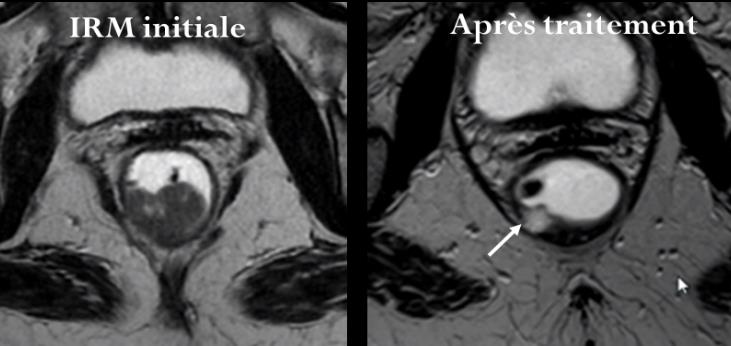
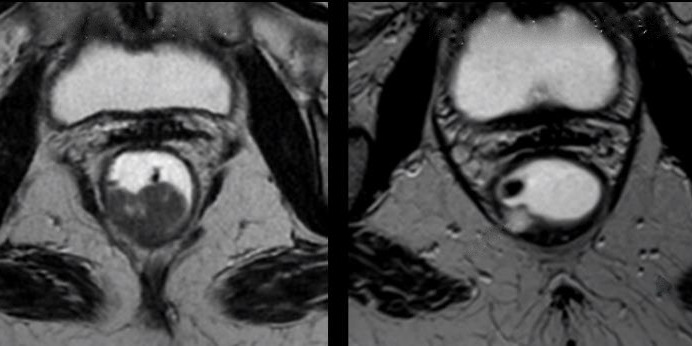
Fiche rectum : iconographie au style du site, nouveau schéma du staging T
- 10 images : flèches, têtes de flèche, textes et mesure incrustés repérés
  au pixel près, effacés, puis redessinés au même endroit dans un calque
  SVG (flèches orange cernées d'encre, tête de flèche noire en bleu, formes
  « ➤ » du stade T3 gardées, étiquettes en Montserrat, « 1,57 cm »).
- Lettres d'article A, B, C sans objet et curseur de souris retirés.
- Images « avant / après » recadrées en 2:1 (format affiché) ; pastille
  « Avant / après » retirée de 3 figures (doublon des étiquettes) ;
  l'agrandissement reprend le calque (.lb-wrap).
- Schéma du staging T remplacé par le dessin de l'auteur.
- Images versionnées (?v=20261021) ; README.

Claude-Session: https://claude.ai/code/session_01XRUNcZaE25We66fu1uYoPm

diff --git a/fiches/irm-cancer-rectum.html b/fiches/irm-cancer-rectum.html
@@ -267,7 +267,7 @@
           <div class="ex-gallery">
             <div class="ex-grid ex-grid-wide">
               <figure class="ex-fig" style="--c: var(--amber)">
-                <button class="ex-img" aria-label="Agrandir : Formes tumorales"><img src="../assets/fiches/rectum/formes-tumorales.jpg" alt="IRM T2 sagittale et axiale — illustration des formes tumorales" loading="lazy"><span class="ex-mod">IRM T2</span></button>
+                <button class="ex-img" aria-label="Agrandir : Formes tumorales"><img src="../assets/fiches/rectum/formes-tumorales.jpg?v=20261021" alt="IRM T2 sagittale et axiale — illustration des formes tumorales" loading="lazy"><span class="ex-mod">IRM T2</span></button>
                 <figcaption><strong>Formes tumorales</strong>Coupes sagittale et axiale T2 illustrant l'aspect morphologique de la tumeur (illustration du cours).</figcaption>
               </figure>
             </div>
@@ -324,8 +324,8 @@
                   <p><mark class="k-key">Envahissement du mésorectum</mark>.</p>
                   <p><mark class="k-ddx">Piège</mark> : discontinuité de la musculeuse (vaisseaux perforants) et spiculations péri-rectales : <mark class="k-ddx">spicules non tumorales</mark> (réaction desmoplastique bénigne) ou tumorales.</p>
                   <figure class="ex-fig ex-inline" style="--c: var(--orange)">
-                    <button class="ex-img" aria-label="Agrandir : Stade T3"><img src="../assets/fiches/rectum/stade-t3.jpg" alt="IRM T2 axiale — stade T3" loading="lazy"><span class="ex-mod">T2 axial</span></button>
-                    <figcaption><strong>Stade T3</strong>Extension tumorale dans la graisse du mésorectum (têtes de flèche).</figcaption>
+                    <button class="ex-img" aria-label="Agrandir : Stade T3"><img src="../assets/fiches/rectum/stade-t3.jpg?v=20261021" alt="IRM T2 axiale — stade T3" loading="lazy"><svg class="annot" style="position:absolute;top:0;left:0;width:100%;height:100%;overflow:hidden" viewBox="0 0 341 270" aria-hidden="true"><g class="mk" data-mk="ext"><path fill="#f2ab2f" stroke="#111114" stroke-width="1.8" stroke-linejoin="round" d="M137.8 193 121.5 199.2 130.9 200.8 134.1 209.4 Z"/></g><g class="mk" data-mk="ext"><path fill="#f2ab2f" stroke="#111114" stroke-width="1.8" stroke-linejoin="round" d="M163.3 197.5 157 213.8 164.6 207.9 173.3 211.3 Z"/></g></svg><span class="ex-mod">T2 axial</span></button>
+                    <figcaption><strong>Stade T3</strong>Extension tumorale dans la graisse du mésorectum (têtes de flèche orange).</figcaption>
                   </figure>
                 </article>
                 <article class="t-panel" data-t="t4" style="--c: var(--k-grave)">
@@ -335,7 +335,7 @@
               </div>
             </div>
             <figure class="ex-fig ex-schema" style="--c: var(--slate)">
-              <button class="ex-img" aria-label="Agrandir : Schéma du staging T"><img src="../assets/fiches/rectum/schema-staging-t.jpg" alt="Schéma du staging T du cancer du rectum" loading="lazy"><span class="ex-mod">Schéma</span></button>
+              <button class="ex-img" aria-label="Agrandir : Schéma du staging T"><img src="../assets/fiches/rectum/schema-staging-t.jpg?v=20261021" alt="Schéma du staging T du cancer du rectum : T1 sous-muqueuse, T2 musculeuse, T3 au-delà de la musculeuse, T4 viscères adjacents" loading="lazy"><span class="ex-mod">Schéma</span></button>
               <figcaption><strong>Staging T</strong>T1 sous-muqueuse, T2 musculeuse, T3 mésorectum, T4 organes de voisinage.</figcaption>
             </figure>
           </div>
@@ -374,15 +374,15 @@
           <div class="ex-gallery">
             <div class="ex-grid">
               <figure class="ex-fig ex-schema" style="--c: var(--slate)">
-                <button class="ex-img" aria-label="Agrandir : Schéma CRM tumeur T1"><img src="../assets/fiches/rectum/schema-crm-t1.png" alt="Schéma : CRM et EMS pour une tumeur T1" loading="lazy"><span class="ex-mod">Schéma</span></button>
+                <button class="ex-img" aria-label="Agrandir : Schéma CRM tumeur T1"><img src="../assets/fiches/rectum/schema-crm-t1.png?v=20261021" alt="Schéma : CRM et EMS pour une tumeur T1" loading="lazy"><svg class="annot" style="position:absolute;top:0;left:0;width:100%;height:100%;overflow:hidden" viewBox="0 0 679 466" aria-hidden="true"><text x="319" y="73.1" text-anchor="middle" font-family="Montserrat, system-ui, sans-serif" font-weight="700" font-size="15.5" fill="#111114">mésorectum</text><text x="57.5" y="147.1" text-anchor="middle" font-family="Montserrat, system-ui, sans-serif" font-weight="700" font-size="15.5" fill="#111114">fascia recti</text><text x="579" y="307" text-anchor="start" font-family="Montserrat, system-ui, sans-serif" font-weight="700" font-size="14" fill="#111114">Ganglion</text><text x="579" y="329.5" text-anchor="start" font-family="Montserrat, system-ui, sans-serif" font-weight="700" font-size="14" fill="#111114">non suspect</text><text x="586" y="374" text-anchor="start" font-family="Montserrat, system-ui, sans-serif" font-weight="700" font-size="14" fill="#111114">Ganglion</text><text x="586" y="397.5" text-anchor="start" font-family="Montserrat, system-ui, sans-serif" font-weight="700" font-size="14" fill="#111114">suspect</text><text x="585" y="428.5" text-anchor="start" font-family="Montserrat, system-ui, sans-serif" font-weight="700" font-size="14" fill="#111114">musculeuse</text><text x="380.5" y="288.9" text-anchor="middle" font-family="Montserrat, system-ui, sans-serif" font-weight="900" font-size="15" fill="#111114">T3</text><g class="mk" data-mk="ems"><path d="M450.9 250.4 L486.9 289.6" stroke="#111114" stroke-width="6" stroke-linecap="round" fill="none"/><path d="M450.9 250.4 L486.9 289.6" stroke="#f7c832" stroke-width="3.2" stroke-linecap="round" fill="none"/><path fill="#f7c832" stroke="#111114" stroke-width="1.4" stroke-linejoin="round" d="M446 245.1 448.1 255.5 456.1 248 Z"/><path fill="#f7c832" stroke="#111114" stroke-width="1.4" stroke-linejoin="round" d="M491.8 294.9 481.7 292 489.8 284.5 Z"/></g><rect x="470.8" y="229" width="46.4" height="19" rx="9.5" fill="#f7c832" stroke="#111114" stroke-width="1.5"/><text x="494.4" y="242.8" text-anchor="middle" font-family="Montserrat, system-ui, sans-serif" font-weight="900" font-size="12" letter-spacing="0.7" fill="#111114">EMS</text><g class="mk" data-mk="crm"><path d="M445.5 332.9 L461.6 358" stroke="#111114" stroke-width="5.2" stroke-linecap="round" fill="none"/><path d="M445.5 332.9 L461.6 358" stroke="#1f8a5b" stroke-width="2.6" stroke-linecap="round" fill="none"/></g><rect x="388.4" y="352.5" width="48.2" height="19" rx="9.5" fill="#1f8a5b" stroke="#111114" stroke-width="1.5"/><text x="412.9" y="366.3" text-anchor="middle" font-family="Montserrat, system-ui, sans-serif" font-weight="900" font-size="12" letter-spacing="0.7" fill="#ffffff">CRM</text></svg><span class="ex-mod">Schéma</span></button>
                 <figcaption><strong>CRM et EMS · tumeur T1</strong>CRM (vert) mesurée jusqu'au fascia recti ; distinction ganglion suspect / non suspect.</figcaption>
               </figure>
               <figure class="ex-fig ex-schema" style="--c: var(--slate)">
-                <button class="ex-img" aria-label="Agrandir : Schéma CRM tumeur T3"><img src="../assets/fiches/rectum/schema-crm-t3.png" alt="Schéma : CRM et EMS pour une tumeur T3" loading="lazy"><span class="ex-mod">Schéma</span></button>
+                <button class="ex-img" aria-label="Agrandir : Schéma CRM tumeur T3"><img src="../assets/fiches/rectum/schema-crm-t3.png?v=20261021" alt="Schéma : CRM et EMS pour une tumeur T3" loading="lazy"><svg class="annot" style="position:absolute;top:0;left:0;width:100%;height:100%;overflow:hidden" viewBox="0 0 591 413" aria-hidden="true"><text x="328" y="79.8" text-anchor="middle" font-family="Montserrat, system-ui, sans-serif" font-weight="700" font-size="16" fill="#111114">mésorectum</text><text x="61.5" y="144.8" text-anchor="middle" font-family="Montserrat, system-ui, sans-serif" font-weight="700" font-size="16" fill="#111114">fascia recti</text><text x="416" y="297.4" text-anchor="middle" font-family="Montserrat, system-ui, sans-serif" font-weight="900" font-size="15" fill="#111114">T3</text><g class="mk" data-mk="ems"><path d="M483.1 251.4 L521.6 289.9" stroke="#111114" stroke-width="6" stroke-linecap="round" fill="none"/><path d="M483.1 251.4 L521.6 289.9" stroke="#f7c832" stroke-width="3.2" stroke-linecap="round" fill="none"/><path fill="#f7c832" stroke="#111114" stroke-width="1.4" stroke-linejoin="round" d="M478 246.3 480.5 256.5 488.3 248.8 Z"/><path fill="#f7c832" stroke="#111114" stroke-width="1.4" stroke-linejoin="round" d="M526.7 295 516.5 292.5 524.2 284.7 Z"/></g><rect x="506.8" y="229.5" width="46.4" height="19" rx="9.5" fill="#f7c832" stroke="#111114" stroke-width="1.5"/><text x="530.4" y="243.3" text-anchor="middle" font-family="Montserrat, system-ui, sans-serif" font-weight="900" font-size="12" letter-spacing="0.7" fill="#111114">EMS</text><g class="mk" data-mk="crm"><path d="M477 331.3 L494.6 356.1" stroke="#111114" stroke-width="5.2" stroke-linecap="round" fill="none"/><path d="M477 331.3 L494.6 356.1" stroke="#1f8a5b" stroke-width="2.6" stroke-linecap="round" fill="none"/></g><rect x="416.9" y="350.5" width="48.2" height="19" rx="9.5" fill="#1f8a5b" stroke="#111114" stroke-width="1.5"/><text x="441.4" y="364.3" text-anchor="middle" font-family="Montserrat, system-ui, sans-serif" font-weight="900" font-size="12" letter-spacing="0.7" fill="#ffffff">CRM</text></svg><span class="ex-mod">Schéma</span></button>
                 <figcaption><strong>CRM et EMS · tumeur T3</strong>EMS (jaune) mesurée depuis la musculeuse ; CRM (vert) jusqu'au fascia recti.</figcaption>
               </figure>
               <figure class="ex-fig" style="--c: var(--orange)">
-                <button class="ex-img" aria-label="Agrandir : Mesure en IRM"><img src="../assets/fiches/rectum/mesure-axiale.jpg" alt="IRM axiale — exemple de mesure" loading="lazy"><span class="ex-mod">IRM axiale</span></button>
+                <button class="ex-img" aria-label="Agrandir : Mesure en IRM"><img src="../assets/fiches/rectum/mesure-axiale.jpg?v=20261021" alt="IRM axiale — exemple de mesure" loading="lazy"><svg class="annot" style="position:absolute;top:0;left:0;width:100%;height:100%;overflow:hidden" viewBox="0 0 358 271" aria-hidden="true"><g class="mk" data-mk="mesure"><path d="M98 145.6 L144.4 134.4" stroke="#111114" stroke-width="5.2" stroke-linecap="round" fill="none"/><path d="M98 145.6 L144.4 134.4" stroke="#f2ab2f" stroke-width="2.4" stroke-linecap="round" fill="none"/><path d="M99.2 150.5 L96.8 140.7" stroke="#111114" stroke-width="5.2" stroke-linecap="round" fill="none"/><path d="M99.2 150.5 L96.8 140.7" stroke="#f2ab2f" stroke-width="2.4" stroke-linecap="round" fill="none"/><path d="M145.6 139.3 L143.2 129.5" stroke="#111114" stroke-width="5.2" stroke-linecap="round" fill="none"/><path d="M145.6 139.3 L143.2 129.5" stroke="#f2ab2f" stroke-width="2.4" stroke-linecap="round" fill="none"/></g><rect x="41" y="180.1" width="74.8" height="21" rx="10.5" fill="#f2ab2f" stroke="#111114" stroke-width="1.5"/><text x="78.8" y="195.3" text-anchor="middle" font-family="Montserrat, system-ui, sans-serif" font-weight="900" font-size="13" letter-spacing="0.8" fill="#111114">1,57 cm</text></svg><span class="ex-mod">IRM axiale</span></button>
                 <figcaption><strong>Exemple de mesure</strong>Mesure sur coupe axiale (1,57 cm), illustrant l'évaluation de l'extension dans le mésorectum.</figcaption>
               </figure>
             </div>
@@ -410,7 +410,7 @@
               </ul>
             </div>
             <figure class="ex-fig" style="--c: var(--rose)">
-              <button class="ex-img" aria-label="Agrandir : CRM du bas rectum"><img src="../assets/fiches/rectum/crm-bas-rectum.jpg" alt="IRM T2 coronale — CRM d'une tumeur du bas rectum" loading="lazy"><span class="ex-mod">T2 coronal</span></button>
+              <button class="ex-img" aria-label="Agrandir : CRM du bas rectum"><img src="../assets/fiches/rectum/crm-bas-rectum.jpg?v=20261021" alt="IRM T2 coronale — CRM d'une tumeur du bas rectum" loading="lazy"><svg class="annot" style="position:absolute;top:0;left:0;width:100%;height:100%;overflow:hidden" viewBox="0 0 291 404" aria-hidden="true"><g class="mk" data-mk="crm"><rect x="182.5" y="210" width="15" height="4.5" rx="1.5" fill="#f2ab2f" stroke="#111114" stroke-width="1.4"/></g><rect x="159.9" y="239.5" width="64.3" height="25" rx="12.5" fill="#111114" stroke="#111114" stroke-width="1.5"/><text x="192.5" y="257.8" text-anchor="middle" font-family="Montserrat, system-ui, sans-serif" font-weight="900" font-size="16" letter-spacing="1" fill="#ffffff">CRM</text></svg><span class="ex-mod">T2 coronal</span></button>
               <figcaption><strong>CRM au bas rectum</strong>Coupe coronale T2 sur le canal anal : marge latérale (CRM) mesurée par rapport au plan de clivage avec le faisceau ilio-coccygien.</figcaption>
             </figure>
           </div>
@@ -537,21 +537,21 @@
           <h3 class="marker-sub">1. Aspect de la tumeur : 3 types de réponse + l'œdème</h3>
           <div class="resp-grid">
             <figure class="ex-fig resp" style="--c: var(--slate)">
-              <button class="ex-img" aria-label="Agrandir : Réponse fibreuse"><img src="../assets/fiches/rectum/reponse-fibreuse.jpg" alt="IRM initiale et après traitement — réponse fibreuse" loading="lazy"><span class="ex-mod">Avant / après</span></button>
+              <button class="ex-img" aria-label="Agrandir : Réponse fibreuse"><img src="../assets/fiches/rectum/reponse-fibreuse.jpg?v=20261021" alt="IRM initiale et après traitement — réponse fibreuse" loading="lazy"><svg class="annot" style="position:absolute;top:0;left:0;width:100%;height:100%;overflow:hidden" viewBox="0 0 688 344" aria-hidden="true"><g transform="translate(0 -4)"><g class="mk" data-mk="fleche"><path fill="#f2ab2f" stroke="#111114" stroke-width="2.2" stroke-linejoin="round" d="M47 258 86.1 257.8 86.2 267.3 116 253.2 86 239.3 86.1 248.8 47 249 Z"/></g><g class="mk" data-mk="tete"><path fill="#f2ab2f" stroke="#111114" stroke-width="2.2" stroke-linejoin="round" d="M464.5 297.7 493.5 277.7 493.6 311.2 Z"/></g><rect x="83.9" y="4.9" width="154.2" height="27.2" rx="13.6" fill="#111114" stroke="#111114" stroke-width="1.5"/><text x="161.5" y="24.6" text-anchor="middle" font-family="Montserrat, system-ui, sans-serif" font-weight="900" font-size="17" letter-spacing="1" fill="#ffffff">IRM INITIALE</text><rect x="387.3" y="4.9" width="225.4" height="27.2" rx="13.6" fill="#111114" stroke="#111114" stroke-width="1.5"/><text x="500.5" y="24.6" text-anchor="middle" font-family="Montserrat, system-ui, sans-serif" font-weight="900" font-size="17" letter-spacing="1" fill="#ffffff">APRÈS TRAITEMENT</text></g></svg></button>
               <figcaption><strong>Réponse fibreuse</strong>
                 <span>Stroma fibreux en <mark class="k-signo">hyposignal T2</mark>, similaire au signal de la musculeuse.</span>
                 <span><mark class="k-ddx">Résidu tumoral au sein de la fibrose : signal intermédiaire</mark>.</span>
               </figcaption>
             </figure>
             <figure class="ex-fig resp" style="--c: var(--amber)">
-              <button class="ex-img" aria-label="Agrandir : Réponse desmoplastique"><img src="../assets/fiches/rectum/reponse-desmoplastique.jpg" alt="IRM initiale et après traitement — réponse desmoplastique" loading="lazy"><span class="ex-mod">Avant / après</span></button>
+              <button class="ex-img" aria-label="Agrandir : Réponse desmoplastique"><img src="../assets/fiches/rectum/reponse-desmoplastique.jpg?v=20261021" alt="IRM initiale et après traitement — réponse desmoplastique" loading="lazy"><svg class="annot" style="position:absolute;top:0;left:0;width:100%;height:100%;overflow:hidden" viewBox="0 0 410 205" aria-hidden="true"><g transform="translate(0 -5)"><g class="mk" data-mk="tete"><path fill="#f2ab2f" stroke="#111114" stroke-width="1.8" stroke-linejoin="round" d="M100.5 48.5 93.9 33.3 107.1 33.3 Z"/></g><g class="mk" data-mk="fleche"><path fill="#f2ab2f" stroke="#111114" stroke-width="1.8" stroke-linejoin="round" d="M207 83 174.8 83 174.8 79 162 86 174.8 93 174.8 89 207 89 Z"/></g><g class="mk" data-mk="tete"><path fill="#f2ab2f" stroke="#111114" stroke-width="1.8" stroke-linejoin="round" d="M247.1 95.1 259.5 99.5 247.1 103.9 Z"/></g><g class="mk" data-mk="fleche"><path fill="#f2ab2f" stroke="#111114" stroke-width="1.8" stroke-linejoin="round" d="M389 101.9 363.4 102.2 363.3 96.7 346 105.4 363.5 113.7 363.5 108.2 389 107.9 Z"/></g><g class="mk" data-mk="tete"><path fill="#f2ab2f" stroke="#111114" stroke-width="1.8" stroke-linejoin="round" d="M352 138.2 350.8 147 338.5 142.5 Z"/></g><rect x="31.1" y="7.4" width="108.9" height="19.2" rx="9.6" fill="#111114" stroke="#111114" stroke-width="1.5"/><text x="85.9" y="21.3" text-anchor="middle" font-family="Montserrat, system-ui, sans-serif" font-weight="900" font-size="12" letter-spacing="0.7" fill="#ffffff">IRM INITIALE</text><rect x="227.4" y="8.4" width="159.1" height="19.2" rx="9.6" fill="#111114" stroke="#111114" stroke-width="1.5"/><text x="307.4" y="22.3" text-anchor="middle" font-family="Montserrat, system-ui, sans-serif" font-weight="900" font-size="12" letter-spacing="0.7" fill="#ffffff">APRÈS TRAITEMENT</text></g></svg></button>
               <figcaption><strong>Réponse desmoplastique</strong>
                 <span><mark class="k-signo">Fines spicules hypointenses</mark> dans la graisse péri-rectale, irradiant à partir du résidu tumoral.</span>
                 <span><mark class="k-ddx">Over-staging tumoral</mark>.</span>
               </figcaption>
             </figure>
             <figure class="ex-fig resp" style="--c: var(--purple)">
-              <button class="ex-img" aria-label="Agrandir : Réponse colloïde"><img src="../assets/fiches/rectum/reponse-colloide.jpg" alt="IRM initiale et après traitement — réponse colloïde" loading="lazy"><span class="ex-mod">Avant / après</span></button>
+              <button class="ex-img" aria-label="Agrandir : Réponse colloïde"><img src="../assets/fiches/rectum/reponse-colloide.jpg?v=20261021" alt="IRM initiale et après traitement — réponse colloïde" loading="lazy"><svg class="annot" style="position:absolute;top:0;left:0;width:100%;height:100%;overflow:hidden" viewBox="0 0 692 346" aria-hidden="true"><g transform="translate(-19 0)"><g class="mk" data-mk="fleche"><path fill="#f2ab2f" stroke="#111114" stroke-width="2.0" stroke-linejoin="round" d="M489.9 258.1 513.1 235.8 515.2 238 521.4 224.3 507.4 229.9 509.5 232.1 486.3 254.3 Z"/></g><rect x="80.9" y="12.4" width="154.2" height="27.2" rx="13.6" fill="#111114" stroke="#111114" stroke-width="1.5"/><text x="158.5" y="32.1" text-anchor="middle" font-family="Montserrat, system-ui, sans-serif" font-weight="900" font-size="17" letter-spacing="1" fill="#ffffff">IRM INITIALE</text><rect x="459.8" y="12.4" width="225.4" height="27.2" rx="13.6" fill="#111114" stroke="#111114" stroke-width="1.5"/><text x="573" y="32.1" text-anchor="middle" font-family="Montserrat, system-ui, sans-serif" font-weight="900" font-size="17" letter-spacing="1" fill="#ffffff">APRÈS TRAITEMENT</text></g></svg></button>
               <figcaption><strong>Réponse colloïde</strong>
                 <span>Nécrose de la tumeur avec <mark class="k-signo">transformation colloïde ou mucineuse</mark>.</span>
                 <span>Rend difficile l'évaluation du résidu ; impossible de distinguer colloïde acellulaire et pauci-cellulaire.</span>
@@ -559,7 +559,7 @@
               </figcaption>
             </figure>
             <figure class="ex-fig resp" style="--c: var(--rose)">
-              <button class="ex-img" aria-label="Agrandir : Œdème post-thérapeutique"><img src="../assets/fiches/rectum/oedeme-post-therapeutique.jpg" alt="IRM — œdème post-thérapeutique" loading="lazy"><span class="ex-mod">Avant / après</span></button>
+              <button class="ex-img" aria-label="Agrandir : Œdème post-thérapeutique"><img src="../assets/fiches/rectum/oedeme-post-therapeutique.jpg?v=20261021" alt="IRM — œdème post-thérapeutique" loading="lazy"><svg class="annot" style="position:absolute;top:0;left:0;width:100%;height:100%;overflow:hidden" viewBox="0 0 702 351" aria-hidden="true"><g transform="translate(-7 0)"><g class="mk" data-mk="tete"><path fill="#f2ab2f" stroke="#111114" stroke-width="2.2" stroke-linejoin="round" d="M202.1 75.5 220.5 92.9 192 100.8 Z"/></g><g class="mk" data-mk="tete"><path fill="#f2ab2f" stroke="#111114" stroke-width="2.2" stroke-linejoin="round" d="M245 133.8 253 109.6 272.5 125.8 Z"/></g><g class="mk" data-mk="tete"><path fill="#f2ab2f" stroke="#111114" stroke-width="2.2" stroke-linejoin="round" d="M545 100.8 554 75.6 573.5 91.8 Z"/></g><g class="mk" data-mk="tete"><path fill="#f2ab2f" stroke="#111114" stroke-width="2.2" stroke-linejoin="round" d="M597 156.8 606 132.6 625.5 148.8 Z"/></g><g class="mk" data-mk="tete-noire"><path fill="#5273bf" stroke="#111114" stroke-width="2.2" stroke-linejoin="round" d="M581.1 182.4 572 158.2 599.5 166.2 Z"/></g><g class="mk" data-mk="courbe"><path d="M71.7 162.4 Q93.1 154.2 114.5 153.8" fill="none" stroke="#111114" stroke-width="11.4" stroke-linecap="round"/><path d="M71.7 162.4 Q93.1 154.2 114.5 153.8" fill="none" stroke="#f2ab2f" stroke-width="7" stroke-linecap="round"/><path fill="#f2ab2f" stroke="#111114" stroke-width="2.2" stroke-linejoin="round" d="M113.3 163.4 132.6 154 112.7 144.2 Z"/></g><g class="mk" data-mk="courbe"><path d="M419.7 176.9 Q441.1 168.8 462.5 168.1" fill="none" stroke="#111114" stroke-width="11.4" stroke-linecap="round"/><path d="M419.7 176.9 Q441.1 168.8 462.5 168.1" fill="none" stroke="#f2ab2f" stroke-width="7" stroke-linecap="round"/><path fill="#f2ab2f" stroke="#111114" stroke-width="2.2" stroke-linejoin="round" d="M461.4 177.3 480.6 168.5 460.6 159.1 Z"/></g><g class="mk" data-mk="droite"><path fill="#f2ab2f" stroke="#111114" stroke-width="2.2" stroke-linejoin="round" d="M183 303 183 279.2 191 279.2 179 261 167 279.2 175 279.2 175 303 Z"/></g><g class="mk" data-mk="droite"><path fill="#f2ab2f" stroke="#111114" stroke-width="2.2" stroke-linejoin="round" d="M549.1 327 548.8 302.7 556.8 302.6 544.5 284 532.8 303 540.8 302.9 541.1 327.1 Z"/></g></g></svg><span class="ex-mod">Avant / après</span></button>
               <figcaption><strong>Œdème post-thérapeutique</strong>
                 <span>Peut avoir un <mark class="k-ddx">aspect pseudo-tumoral</mark>.</span>
                 <span><mark class="k-signo">Signal intermédiaire</mark> : inflammation de la sous-muqueuse adjacente à la tumeur.</span>
@@ -677,7 +677,7 @@
 
   <dialog class="lightbox" id="lightbox" aria-label="Image agrandie">
     <button class="modal-close" aria-label="Fermer">&times;</button>
-    <img src="" alt="">
+    <div class="lb-wrap"><img src="" alt=""></div>
     <p class="lightbox-cap"></p>
   </dialog>
 

diff --git a/README.md b/README.md
@@ -4,7 +4,7 @@
 
 🌐 **Site en ligne :** https://nodbysmilii-prog.github.io/radiologic-hub/
 
-> Dernière mise à jour du README : 17 octobre 2026
+> Dernière mise à jour du README : 21 octobre 2026
 
 ---
 
@@ -128,7 +128,7 @@ Masses rénales kystiques, **classification de Bosniak version 2019** (Silverman
 |---|---|---|---|
 | Digestif | **Adénocarcinome canalaire du pancréas** | `fiches/adenocarcinome-pancreas.html` | Tableau vasculaire filtrable, feu tricolore de résécabilité, **annexe « Cas & images »** repliable avec 2 carrousels annotés (cas d'extension vasculaire, signes typiques A–D, variante : sténose athéromateuse du tronc cœliaque A–B, diagnostics différentiels : métastases pancréatiques, tumeur neuroendocrine, pancréatite auto-immune) |
 | Digestif | **Imagerie de la maladie de Crohn** | `fiches/maladie-de-crohn.html` | Objectifs numérotés, préparation de l'entéro-IRM en frise, activité vs chronicité, phénotypes B1–B3 |
-| Digestif | **IRM pelvienne dans le cancer du rectum** | `fiches/irm-cancer-rectum.html` | 13 images du cours, onglets T1–T4, jauge EMS, échelle mrTRG, **checklist du compte rendu** mémorisée dans le navigateur |
+| Digestif | **IRM pelvienne dans le cancer du rectum** | `fiches/irm-cancer-rectum.html` | 13 images du cours (flèches, têtes de flèche, textes et mesure redessinés au style du site, en calques SVG), schéma du staging T de l'auteur, onglets T1–T4, jauge EMS, échelle mrTRG, **checklist du compte rendu** mémorisée dans le navigateur |
 | Uro | **IRM de la prostate : diagnostic du cancer** | `fiches/irm-prostate-diagnostic.html` | D'après la planche du cours, **sans les images IRM** : les 7 commandements (A–G), PI-QUAL (tableau 1–5 et implications), mesure de la glande et PSAd, signal de fond (Bura 2021, 1–4), onglets **ZP · diffusion** / **ZT · T2** (définitions des scores 1–5 et tableaux de décision PI-RADS v2.1 avec la perfusion / la diffusion accessoires), **cartographie sectorielle** dessinée (coupes axiales base / milieu / apex, vues sagittale et coronale, zones colorées, correspondances LPZ = PZpl…), PRECISE / Likert / PI-RR, checklist du CR, 6 cartes « Testez-vous » |
 | Uro | **IRM de la prostate : bilan d'extension** | `fiches/irm-prostate-extension.html` | D'après la planche du cours, **sans les images IRM** : à savoir (pas de vraie capsule…), **TNM 2016**, signes iT3a, **score EPE 0–3** avec schémas dessinés et Se / VPP / VPN, vésicules séminales iT3b (Likert, 3 types d'extension en schéma), iT4, iN (IRM, TEP-choline, TEP-PSMA), iM (scintigraphie, scanner TAP), checklist du CR, 6 cartes « Testez-vous » |
 | Uro | **Masses rénales kystiques : Bosniak 2019** | `fiches/masses-renales-kystiques.html` | D'après les notes de cours de l'auteur et la version 2019 (Silverman 2019), **sans les images de scanner** : à savoir (masse kystique < 25 % de tissu rehaussé, hors Bosniak, on ne compte que ce qui se rehausse, ordre IV → I), **vocabulaire 2019** (fine ≤ 2 mm, 3 mm, ≥ 4 mm, irrégularité, nodule), **les 5 catégories en tuiles avec les schémas de l'auteur** (critères TDM / IRM et conduite ; schémas identiques à ceux de la page Bosniak, vérifié par un test), kyste hyperdense, rehaussement (< 10, 10 à 19, ≥ 20 UH), pièges (cloison lisse de 3 mm = IIF, protrusion de 2 mm à angle aigu = IV…), conduite à tenir (dont tumeurs kystiques de bas potentiel et biopsie), checklist du CR (avec lien vers l'éditeur), 8 cartes « Testez-vous » ; bouton « Calculateur Bosniak → » |
@@ -611,6 +611,7 @@ Les tests n'utilisent que des **cas fictifs** (identifiants `TEST-0001`…) : au
 - [ ] **Images manquantes** : fiche pancréas (sémiologie, extension) et fiche Crohn — voir les README de `assets/fiches/pancreas/` et `assets/fiches/crohn/`.
 - [ ] **Fiche Crohn** : harmoniser la préparation de l'entéro-IRM (« 1 L / 45-60 min » vs « 1,5-2 L / 30 min-1 h »).
 - [ ] **Fiche rectum** : préciser les légendes des images « formes tumorales » et « mesure axiale 1,57 cm ».
+- [ ] **Fiche rectum** : le schéma légendé « CRM et EMS · tumeur T1 » porte « T3 » sur l'étoile tumorale (texte d'origine, gardé tel quel) : légende ou schéma à vérifier par l'auteur.
 - [ ] **Fiches des autres spécialités** : Neuro, Thorax, Traumato, Pédiatrie ; Cardio-vasculaire et Imagerie de la femme : d'autres fiches à venir.
 - [ ] **Coroscanner** : faire valider la formule (« sinus coronaire droit / gauche » remplace « sinus antérieur » pour les deux ostia ; la ligne « Absence de fuite aortique », reprise du service, est à garder ou non en scanner) et l'outil CAD-RADS (seuils P1-P4, conduites proposées, rattachement de la bissectrice au territoire de la circonflexe pour la règle des trois territoires).
 - [ ] **Fiche myocardite** : faire relire médicalement (notamment les aspects IRM types et le calculateur Lake Louise) ; déposer des images **anonymisées** de cas du service dans `assets/fiches/myocardite/` (noms attendus dans le README du dossier) ; images d'articles seulement sous licence libre (CC BY), auteurs cités.
@@ -634,6 +635,7 @@ Les tests n'utilisent que des **cas fictifs** (identifiants `TEST-0001`…) : au
 
 | Date | Modification |
 |---|---|
+| 21/10/2026 | Fiche **IRM du cancer du rectum** : **iconographie au style du site**. Sur 10 images, les flèches, têtes de flèche, textes et la mesure incrustés (repérés au pixel près) sont effacés puis redessinés **exactement au même endroit** en calques SVG : flèches et têtes de flèche orange cernées d'encre (tête de flèche noire de l'œdème en bleu, formes « ➤ » du stade T3 gardées), étiquettes en Montserrat (« IRM INITIALE », « APRÈS TRAITEMENT », « CRM », « EMS », « mésorectum », « fascia recti », légende), mesure « **1,57 cm** » (virgule) sur un trait au pied à coulisse ; lettres d'article sans objet (A, B, C) et curseur de souris d'une capture retirés. Images « avant / après traitement » recadrées au format 2:1 où la fiche les affiche (calques justes dans la vignette et dans l'agrandissement, qui reprend désormais le calque) ; pastille « Avant / après » retirée de ces 3 figures (doublon des étiquettes). **Nouveau schéma du staging T** (dessin de l'auteur) à la place de l'ancien schéma en anglais. Images versionnées (`?v=20261021`). |
 | 17/10/2026 | **Mise en ligne de l'espace radioanatomie** à la demande de l'auteur et entrée **« Radioanatomie »** ajoutée au menu principal et au pied de page des 27 pages (juste après « Fiches rapides », entrée active sur les pages de l'espace) ; menu resserré pour tenir sur une ligne (espacement réduit jusqu'à 1366 px, encore un peu sous 1212 px ; vérifié de 1141 à 1600 px, accueil compris) ; `styles.css?v=` changé sur toutes les pages ; nouveau test du menu (9 tests radioanatomie) ; branche en ligne : espace radioanatomie ajouté, toujours sans le cours des ischio-jambiers |
 | 17/10/2026 | Espace radioanatomie : **mode test** demandé par l'auteur — étiquettes et territoires masqués, lésion ischémique simulée dans un territoire (FLAIR / T2 / T1), QCM « structure atteinte » et « territoire artériel », correction avec révélation du territoire et explication, score sur 20 (10 questions parmi 22, côté au hasard) ; banque de questions vérifiée sur la carte du sujet (`QUESTIONS`, `manifest.json`) ; nouveau test (8 au total) ; vérifié dans Chromium (ordinateur et téléphone). |
 | 16/10/2026 | Espace radioanatomie, demandes de l'auteur « reprends ce qu'il y a dans la vidéo » et « fais-le pour différentes pondérations, FLAIR et T2 aussi » : **nouvelle IRM** d'un volontaire sain (projet IBC, OpenNeuro ds002685, CC0) en **T1, T2 et FLAIR 3D** d'une même séance, recalée sur l'espace MNI (ANTs : rigide, affine, puis SyN pour transporter la carte depuis Colin 27), boutons « Pondération » et touche P, T2 et FLAIR chargés à la demande ; **découpage de la vidéo de référence** : ACP en un seul territoire (thalamus, mésencéphale, temporal inférieur, corps de l'hippocampe), **choroïdienne antérieure** (bras postérieur de la capsule interne, uncus, tête de l'hippocampe ; groupe « carotide interne »), basilaire limitée au pont, **AICA et PICA séparées**, **vertébrale et spinale antérieure** sur le bulbe, 11 territoires détaillés par côté et 5 grands territoires ; **zones jonctionnelles corticale et profonde** (calque hachuré, légende, étiquettes, bulle, case à cocher et touche J) ; tests réécrits (7) ; textes de la page, de l'accueil de l'espace et de la carte des Fiches rapides. |

diff --git a/assets/fiches/rectum/README.md b/assets/fiches/rectum/README.md
@@ -3,6 +3,11 @@
 Images extraites du cours de l'auteur (PDF « irm_rectum_2 »).
 Pour remplacer une image, garder le même nom de fichier.
 
+Depuis le 21/10/2026, les flèches, textes et mesures d'origine sont **effacés des images** et redessinés au style du site
+dans un calque SVG (`<svg class="annot">`) placé dans la fiche, aux mêmes coordonnées (pixels de l'image).
+Les 4 images « avant / après » sont recadrées au format 2:1 (celui de la fiche). Si une image est remplacée,
+reprendre son calque. `schema-staging-t.jpg` : schéma dessiné par l'auteur.
+
 | Fichier | Section |
 |---|---|
 | `formes-tumorales.jpg` | V.1 Formes tumorales |
